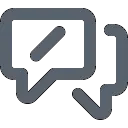
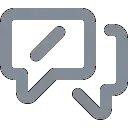
fix(emojis): brighten the github muted colour

diff --git a/monty/constants.py b/monty/constants.py
@@ -232,7 +232,7 @@ class ColoursCls(BaseModel):
 
 
 class GHColour(int, enum.Enum):
-    muted = 0x59636E
+    muted = 0x848D97
     success = 0x6EB771
     done = 0x8250DF
     danger = 0xD1242F
